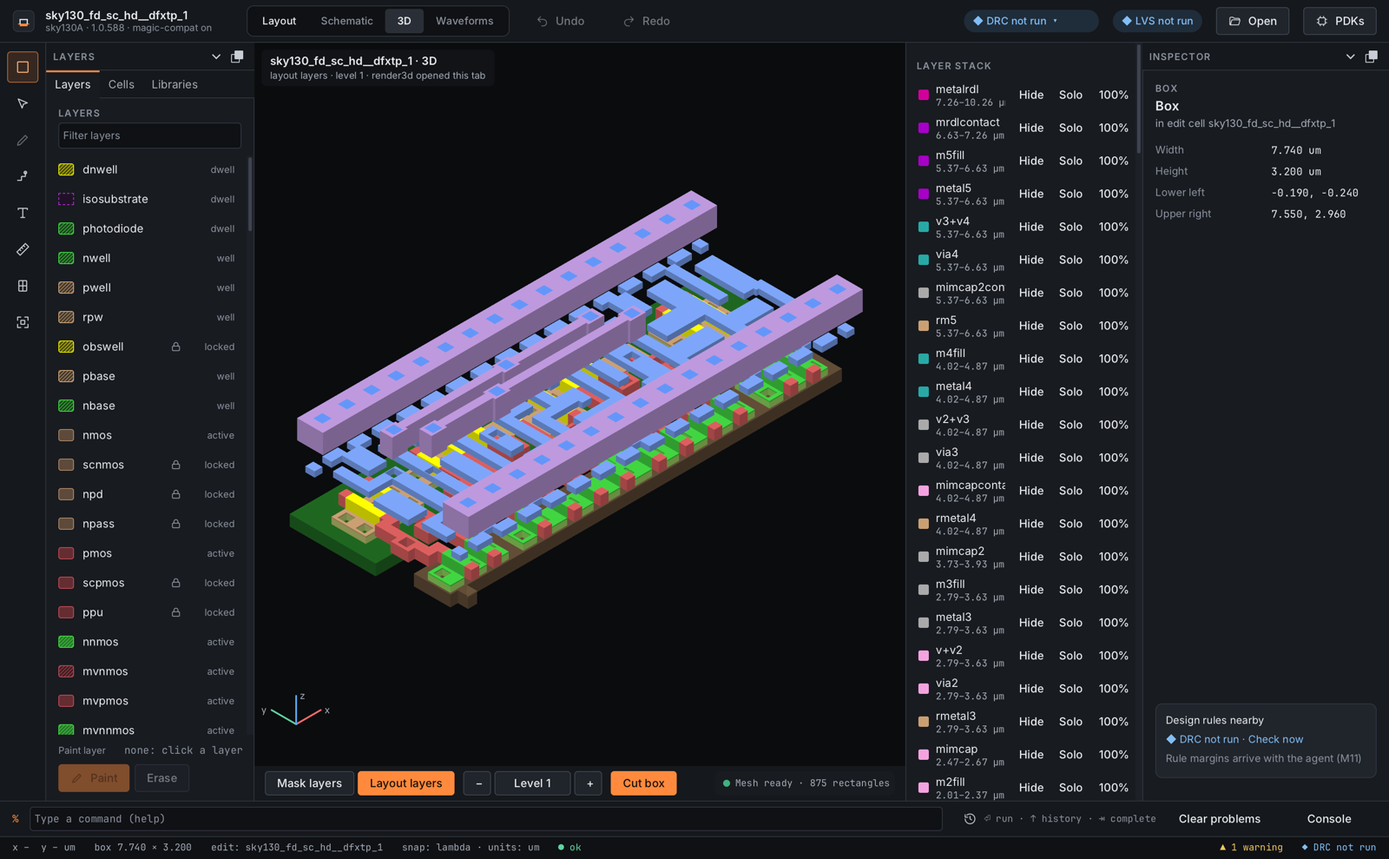
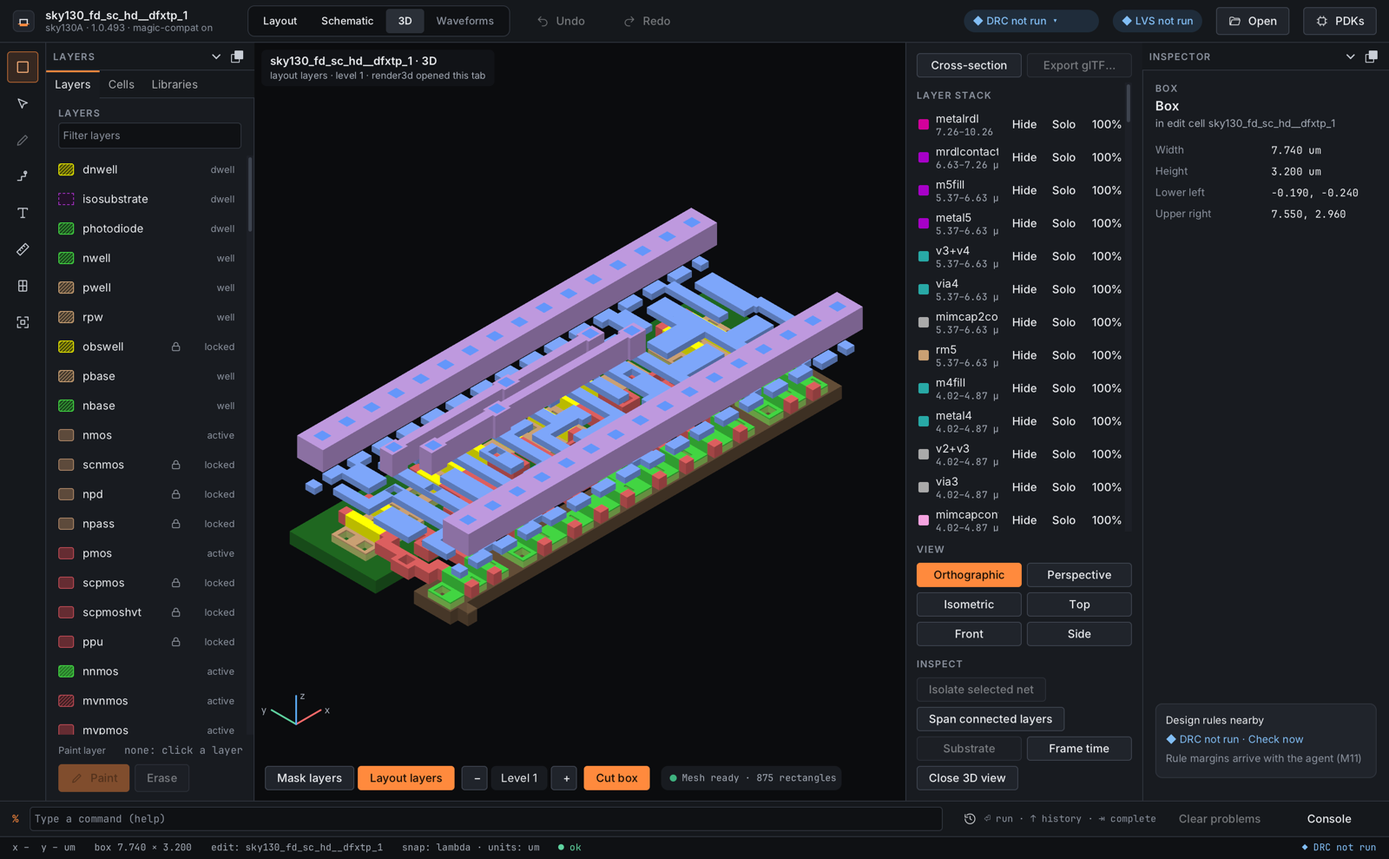
M10 3D round 5 SHELL: conformance review, captures, task notes
After captures (macOS, 1600 x 989 and 1280 x 800) of the floating
toolbar, fitted side panel and Cross-section panel; conformance rows for
round 5 and the accessibility audit of the running app's AX tree; as-landed
notes for tasks 9.6 and 11.5 and design.md.

diff --git a/docs/design/m10-3d-ui-conformance.md b/docs/design/m10-3d-ui-conformance.md
@@ -30,6 +30,22 @@ Round 4 Linux captures (PR #102 CI run 45420881227, leg `linux-x64-clang-latest`
 
 Round 4 (SHELL, branch `m10-3d-round4-shell`, 2026-11-24; Q-MISC-84, Q-MISC-85): the user's screenshot of `sky130_fd_sc_hd__dfxtp_1` did not look like the board. Before captures (same build at the origin/main base, kept out of the repository) showed a light grey background, washed-out faces fading to white, an isometric `view` with the stack upside down and the cell far larger than the window, and Magic's top-down view on opening. After captures, macOS (Apple M3 Pro, MoltenVK, debug build, 1600 × 989 logical, `hefesto -T sky130A.tech <cell>.mag --run 'magic::render3d; .render.magic cif' --capture …`, with Magic's `mos` styles in a CAD_ROOT), with RENDER's round-4 renderer merged: [view3d-dfxtp1-macos.png](../images/ui/view3d-dfxtp1-macos.png) (magic-compat ON), [view3d-dfxtp1-compat-off-macos.png](../images/ui/view3d-dfxtp1-compat-off-macos.png) (`setting set magic-compat off` first: the same picture), [view3d-inverter-macos.png](../images/ui/view3d-inverter-macos.png) (`sky130_fd_sc_hd__inv_1`, standing in for the board's `inverter_demo`, which the repository does not have). Rows in "Round 4 board look" below. Linux captures of the new look come from the CI desktop legs (open).
 
+Round 5 (SHELL, branch `m10-3d-round5-shell`, 2026-11-25; tasks 9.6, 11.5): before captures (the origin/main build at cbe15a8c, kept out of the repository) reproduce the round-4 Linux gaps on macOS at 1280 × 800: the toolbar strip under the view is wider than the view (Cut box and the mesh status cut off), and the panel's View and Inspect sections are below a 349-row layer list. After captures, macOS (Apple M3 Pro, MoltenVK, debug build, same commands as round 4, plus 1280 × 800): [view3d-dfxtp1-macos.png](../images/ui/view3d-dfxtp1-macos.png) (1600 × 989), [view3d-dfxtp1-1280-macos.png](../images/ui/view3d-dfxtp1-1280-macos.png) (1280 × 800), [view3d-dfxtp1-compat-off-macos.png](../images/ui/view3d-dfxtp1-compat-off-macos.png) (magic-compat OFF: the same picture), [view3d-inverter-macos.png](../images/ui/view3d-inverter-macos.png), [view3d-tab-macos.png](../images/ui/view3d-tab-macos.png) (the window test's cell at 1280 × 800), and the Cross-section panel after a click on "Cross-section" (`--press`): [view3d-section-dfxtp1-macos.png](../images/ui/view3d-section-dfxtp1-macos.png), [view3d-section-tab-macos.png](../images/ui/view3d-section-tab-macos.png). Rows in "Round 5" below. The Linux captures of the same window test come from the CI desktop legs of the round's PR (`view3d-captures-<leg>`).
+
+## Round 5: floating toolbar, fit at 1280 × 800, P2 screen part (tasks 9.6, 11.5)
+
+Compared with the board `docs/design/mockups/View3D.dc.html` and the round-5 after captures.
+
+| Element | Seen in the after captures | Status / gap |
+|---|---|---|
+| Floating view toolbar | Mask / Layout layers, the Level stepper (− · "Level 1" · +) and Cut box float over the bottom-left of the 3D view, 12 px from its edges (`raven_ui` `Widget::place_bottom_left`), with the mesh status chip; the strip under the view is gone. The groups flow into rows when the view is narrow (`flow_rows`): one row at 1600 × 989, two rows at 1280 × 800 (mode and level, then Cut box and status). The axis gizmo and the pick caption sit above the toolbar. | done (macOS); the status chip follows the controls instead of sitting at the right end as on the board |
+| Every control fits at 1280 × 800 | The side panel's paired buttons (Cross-section / Export glTF…, Orthographic / Perspective, the presets, Substrate / Frame time) are a two-column grid of equal cells (the board's camera grid), so "Side" ends inside the panel; nothing in the toolbar is cut off. Test "the side panel's button grid and the floating toolbar fit a 1280-px-wide window". | done (macOS 1280 × 800); Linux X11/Wayland from the PR's CI captures |
+| Presets and projection | Pinned under the scrolled layer stack ("View"), always visible, as the board pins them to the bottom of its aside; the layer list scrolls above them. | done (macOS) |
+| Cross-section (task 11.5) | The "Cross-section" toggle cuts A–A′ along the layout box's long axis (axis-aligned; else the cut box, else the cell's bounding box) and shows the "Cross-section A–A′" panel under Inspect: each layer's intervals from h to h + t in µm in its display style's colour, the line's length, the layers with no height named. Two clicks in the 3D view set A and A′ once SECTION's `view3d::ground_point` is merged (guarded). | partial: on main `view3d::section` is a stub, so the panel reads "No layer crosses the line" in the captures; the bars appear with SECTION's implementation (integration). The 3D clipping plane (`DrawParams::section_plane`) is not wired (SECTION's field was not available to this branch) |
+| Export glTF… (task 11.5) | Asks for a file with the platform save dialog (`platform::FilePicker`: glTF, glTF binary, STL; "<cell>.gltf" proposed) and runs `<path> export3d <file>` (or plain `export3d <file>` when the command is not in the 3D window's table). | partial: disabled in the captures because `export3d` (EXPORT, D14) is not registered on main; it enables itself when the command exists |
+| Substrate slab | A "Substrate" toggle (default on, the board look) sets `DrawParams::substrate` from `view3d::substrate_slab` when SECTION's interfaces are merged (guarded). | partial: disabled ("Substrate, off") until SECTION is merged; no slab drawn in the captures |
+| Layer row text at 1280 × 800 | The rows end before the scroll bar; long sky130A names and their µm ranges ("mrdlcontact", "6.63–7.26 µm") are clipped by the three row buttons. | partial: clipped long names (the board shows the row buttons only on hover) |
+
 ## Round 4 board look (Q-MISC-84, Q-MISC-85; tasks 16.6-16.8, 16.10)
 
 Compared with the board render `docs/images/ui/view3d.png` and the three after captures.
@@ -43,8 +59,8 @@ Compared with the board render `docs/images/ui/view3d.png` and the three after c
 | Ghosted layers | The nwell and pwell slabs are drawn at 20 % (dark, see-through) under the devices in both cells; contacts, vias, diffusions, poly, locali and metals are opaque; a row's 100 / 50 / 20 % control overrides it for the window. The board's synthetic substrate slab is not built (deferred by Q-MISC-85). | done (macOS); substrate slab deferred |
 | Camera default | The tab opens on the isometric preset framed to the drawn layers (`view`, `scroll`, `zoom` run on the window's path, so they report it), with s_z 1 so the heights are in proportion. | done (macOS) |
 | Axis gizmo | x (red), y (green), z (blue) arrows at the bottom left from the view's rotation, z pointing up in the isometric view, as the board. | done (macOS) |
-| Presets Isometric / Top / Front / Side | Each runs `view` and then `scroll`/`zoom` from `frame_view`, so the cell fits the view. In the side panel's "View" section, below a long layer list (sky130A has 349 rows), not at the bottom of a left aside as on the board. | partial: placement differs; not in the macOS captures' visible area; in the Linux X11 capture (1280 × 800) the "Side" button is clipped at the panel's right edge |
-| Bottom view toolbar | Mask layers / Layout layers, Level − n +, Cut box and the mesh status with a state dot, in a strip under the view. The board floats it over the view; Raven's `Overlay` wrapper (`raven_ui`) only places children at the top. | partial: strip below the view, not over it; clipped at 1280 × 800 on Linux (Cut box and status cut off) |
+| Presets Isometric / Top / Front / Side | Each runs `view` and then `scroll`/`zoom` from `frame_view`, so the cell fits the view. In the side panel's "View" section, below a long layer list (sky130A has 349 rows), not at the bottom of a left aside as on the board. | Round 5: done (macOS): a two-column grid pinned under the layer list, visible in every capture; nothing clipped at 1280 × 800 |
+| Bottom view toolbar | Mask layers / Layout layers, Level − n +, Cut box and the mesh status with a state dot, in a strip under the view. The board floats it over the view; Raven's `Overlay` wrapper (`raven_ui`) only places children at the top. | Round 5: done (macOS): floats over the view (see "Round 5") and flows into two rows at 1280 × 800 |
 
 ## Board review (DESIGN, task 7.1)
 
@@ -91,7 +107,7 @@ Round 3 (SHELL): `Mesh3dSpike` is removed (`mesh3d_spike.hpp|.cpp`, the `mesh3d_
 | Layers bottom to top with µm ranges (`physical_height_um`) | One row per drawn layer, sorted by draw height and listed top first (as the board), swatch in the display style's color, range in µm, blank when the layer has no height source; non-solid, non-stippled styles are left out (N3). | done (headless) |
 | Show / hide / isolate, kept in sync with `see` (Q-MISC-71) | Row buttons Hide/Show, Solo and "Show all layers" run `<path> see [no] <layer>`, `see no *` + `see <layer>`, `see *`; the rows are read back from the window's set after every command, so `see` from the console updates the panel. Disabled in mask-layer mode (the mask set applies to P2's layers). Test "panel visibility and see stay in sync both ways". | done (headless) |
 | Per-layer transparency | The row's percentage button cycles 100 / 50 / 20 % (`DrawParams::alpha`), outside Magic's state. Round 4: non-conducting area layers start at 20 % (Q-MISC-85); the user's value is kept for the window across rebuilds. | done (headless; ghost defaults seen in the round-4 macOS captures) |
-| Presets Isometric, Top, Front, Side | Buttons running `<path> view ax ay az` with CAMERA's preset angles, then (round 4) `scroll` and `zoom` from `view3d::frame_view` so the drawn layers fit the view. | done (headless) |
+| Presets Isometric, Top, Front, Side | Buttons running `<path> view ax ay az` with CAMERA's preset angles, then (round 4) `scroll` and `zoom` from `view3d::frame_view` so the drawn layers fit the view; round 5: a two-column grid as on the board. | done (macOS captures) |
 | Perspective toggle | Orthographic / Perspective pair (`DrawParams::projection`), not part of Magic's view values. | done (headless) |
 | Mouse, trackpad and key gestures (orbit, pan, zoom, reset) | Drag orbits; Option/Shift/right/middle drag pans; wheel and pinch zoom (Shift scales z); two-finger scroll pans; keys through the `wind3d` bindings (space is `defaults`, Magic's reset). | done (headless) |
 | Cutbox toggle (`cutbox box` / `cutbox none`) | A toggle button, pressed while the window has a cut box. | done (headless) |
@@ -110,8 +126,8 @@ Round 3 (SHELL): `Mesh3dSpike` is removed (`mesh3d_spike.hpp|.cpp`, the `mesh3d_
 
 | Element | Phase | Status / gap |
 |---|---|---|
-| Cross-section tool and the A–A′ section panel | P2 (task 11.5) | later |
-| Export glTF with the file picker | P2 (task 11.5) | later |
+| Cross-section tool and the A–A′ section panel | P2 (task 11.5) | partial (round 5): built; empty until SECTION's `view3d::section` lands; no 3D clipping plane yet (see "Round 5") |
+| Export glTF with the file picker | P2 (task 11.5) | partial (round 5): built; enabled once EXPORT registers `export3d` (see "Round 5") |
 | Overlay dropdown and legend | P3 (task 15.1) | later |
 | Touch orbit and pinch zoom | M14 (iPadOS) | later |
 
@@ -123,18 +139,24 @@ Reviewed on 2026-11-22 against `docs/design/mockups/View3D.dc.html` with the mac
 |---|---|---|
 | Editor-view tab "3D" with its header (cell, mode, level, what opened the tab) | As on the board; the tab is the active segment and the header is a chip at the top left of the view. | done (macOS) |
 | Layer stack, top layer first, swatch, name, µm range, row controls | As on the board; the row buttons are always shown (the board shows them on hover), so they are reachable by Tab and need no hover state. With a 349-layer technology (sky130A) the list is long and scrolls. | done (macOS); difference noted |
-| View toolbar along the bottom of the 3D view (mode, level, cut box, mesh status) | Round 4: Mask / Layout layers, the Level stepper, Cut box and the mesh status are in a toolbar strip under the 3D view, always visible whatever the length of the layer list. The board floats the toolbar over the view; the strip sits below it (see "Round 4 board look"). | partial (macOS): strip below the view |
-| Orthographic / Perspective and the presets | In the side panel's "View" section. | done (headless); not in the capture's visible area |
+| View toolbar along the bottom of the 3D view (mode, level, cut box, mesh status) | Round 5: floats over the bottom of the view as on the board, flowing into rows on a narrow view (see "Round 5"). | done (macOS) |
+| Orthographic / Perspective and the presets | Round 5: the side panel's "View" section, pinned under the scrolled layer stack, in the board's two-column grid. | done (macOS) |
 | Inspect group (Isolate selected net, Span connected layers) | In the side panel's "Inspect" section with Frame time and Close 3D view. | done (picking integrated in round 3) |
 | Tab menu ("Open in separate window", "Close 3D view") | "Close 3D view" is a side-panel button; "Open in separate window" is not built. | todo (P2) |
 | Pick callout ("metal1 · VPWR, picked · selected in 2D") | Caption at the bottom right after a click. | blocked: INSPECT |
 
 ## Accessibility (task 9.6)
 
-| Element | Implemented as | Status / gap |
+Checked on 2026-11-25 (round 5) on the running app (macOS 1280 × 800, the window test's cell, 3D tab shown) by reading its accessibility tree through System Events (`entire contents` of the window, read-only; VoiceOver was not turned on, the Mac is shared). Raven v0.2.3 publishes an NSAccessibility tree for its painted widgets: every 3D-tab control below was found with the listed role and name, and disabled controls report `enabled = false`.
+
+| Element | Implemented as, and what the AX tree shows | Status / gap |
 |---|---|---|
-| Keyboard access to every control | Every control is a focusable painted button (Tab reaches it; Enter and Space click it), including the row buttons and the editor-view tabs; the 3D view takes the focus on a click or when its tab is shown, and its keys are Magic's `wind3d` bindings. | partial: reviewed in code, view-model tests and the macOS capture; a VoiceOver pass on the running app is pending |
-| Screen-reader labels for every control | Names: "3D view", "3D view controls", "3D view toolbar", "Mesh status" (named with the status text), "Layer stack, top layer first", each row "metal1, 1.38–1.73 µm, shown" (a ghosted row adds ", ghosted, 20 percent opaque"), "Hide metal1", "Isolate metal1", "Transparency of metal1, 50 percent" (", ghosted by default" for a ghosted row), "Level down" / "Level up", the presets by name; toggles announce ", on" / ", off" (Perspective, Cut box, Span connected layers, Frame time, Isolate selected net). | partial: as above |
+| Keyboard access to every control | Every control is a focusable painted button (Tab reaches it; Enter and Space click it), including the row buttons and the editor-view tabs; the 3D view takes the focus on a click or when its tab is shown, and its keys are Magic's `wind3d` bindings. | done (code, view-model tests, AX tree: every control is an AXButton); keyboard walk on the running app not recorded |
+| Screen-reader names | From `control_view` (test "every 3D tab control has a screen-reader name and toggles announce their state"): "Cross-section", "Export glTF…", "Orthographic", "Perspective", the presets, "Substrate", "Isolate selected net", "Span connected layers", "Frame time", "Close 3D view", "Show all layers", "Mask layers", "Layout layers", "Level down", "Level up", "Cut box"; rows "metal1, 1.38–1.73 µm, shown" (", ghosted, 20 percent opaque" for a ghosted row), "Hide metal1", "Isolate metal1", "Transparency of metal1, 50 percent"; the level value "Level 1" (AXStaticText, no longer a button that did nothing); the status "Mesh ready · 5 rectangles"; the header "view3d_tab · 3D, layout layers · level 1 · render3d opened this tab"; the section panel's text lists each layer's µm range and interval count. | done (AX tree) |
+| State of toggles | Toggles announce ", on" / ", off" in the name (AXButton "Cut box, on", "Perspective, off"). Raven exposes a checked state (AXValue) only for its own check boxes, menu items and tabs; a painted widget with the toggle role has no way to set it. | partial: state in the name, not in AXValue; upstream Raven item (an accessible checked state for custom widgets) |
+| Groups and roles | AXToolbar "3D view toolbar" with AXGroups "Layer source (cif)" and "Rendering level"; AXGroup "3D view controls" (pane) with groups "3D actions", "Projection", "Camera", "View options"; AXList "Layer stack, top layer first"; section headings as AXStaticText; the separator is hidden from screen readers. | done (AX tree); the board's radio groups (mode, projection) are toggle buttons: Raven's wrapper has no radio role with a selected state |
+| Disabled controls | Export glTF… (no `export3d`), Substrate (no slab yet), Isolate selected net (nothing picked) report `enabled = false` (`set_enabled` follows `control_view`). | done (AX tree) |
+| Outside the 3D tab | The tree also has an unnamed AXButton between the 3D tab and the inspector, and one after "Zoom to fit" (main window widgets, outside SHELL's 3D files; open item). | open item (main window) |
 
 ## Performance (PERF, section 13)
 

diff --git a/openspec/changes/m10-3d-view/tasks.md b/openspec/changes/m10-3d-view/tasks.md
@@ -107,8 +107,9 @@ How this plan runs:
   - As landed (round 3): `from_selection(mesh, stack, selection)`: an instance is highlighted when selected paint of its layer's type overlaps its rectangle, a triangle's bounding box or the unit strip inside a side face. Tests: `highlight_test.cpp` (whole and half rectangle).
 - [x] 9.5 (INSPECT) Implement net highlighting and "Isolate selected net" through `connect` (flat and hierarchical). Verify against `connect::search_flat` results on an inverter: the highlighted set equals the net's tiles.
   - As landed (round 3): `net_highlight(mesh, editor, seed, NetOptions)` with `NetScope::flat` (`connect::search_flat`, the rendered cell) or `hierarchical` (default), both modes of the flat search's compat quirk; `isolate_others` gives the instances to hide or dim. Tests: `highlight_test.cpp` (inverter, both settings: highlighted rectangle area per layer equals the net's area from `search_flat`; a seed in a subcell found only by the hierarchical search).
-- [ ] 9.6 (SHELL) Desktop review of P1 against the board, keyboard and screen-reader labels for every control. Verify the review entries in `docs/design/m10-3d-ui-conformance.md`.
+- [x] 9.6 (SHELL) Desktop review of P1 against the board, keyboard and screen-reader labels for every control. Verify the review entries in `docs/design/m10-3d-ui-conformance.md`.
   As landed (round 3, SHELL): review entries in the conformance doc ("Desktop review of P1" and "Accessibility"); every control is a focusable button with a screen-reader name, toggles announce on/off; macOS screenshot `docs/images/ui/view3d-macos.png`; macOS and Linux (X11, Wayland) captures of the 3D tab test `view3d-tab-*.png`. Left open: a VoiceOver pass, the bottom view toolbar of the board (the parity controls sit in the side panel) (the README image is the new capture `view3d-macos.png`, done at integration; `view3d.png` stays as the mock-up render). Integration round 3: still open for the VoiceOver pass on the running app and the board's bottom view toolbar; neither is a D19 P1 exit criterion.
+  As landed (round 5, SHELL, branch `m10-3d-round5-shell`): the toolbar floats over the bottom of the view (`raven_ui` `Widget::place_bottom_left`, new) and flows into rows on a narrow view; the side panel's paired buttons and presets are a two-column grid pinned under the scrolled layer stack, so every control fits at 1280 x 800 (regression test "the side panel's button grid and the floating toolbar fit a 1280-px-wide window"). Screen-reader pass: the running app's accessibility tree, read through System Events (VoiceOver not turned on, shared Mac), shows every 3D-tab control with its role and name; names and states come from `control_view` (tests "every 3D tab control has a screen-reader name and toggles announce their state", "controls are disabled, and exposed so, when they cannot act"). Gap: a painted toggle's on/off state is in its name, not AXValue (Raven has no checked state for custom widgets; upstream item). Review entries: conformance doc "Round 5" and "Accessibility".
 
 ## 10. MASKSRC: mask-layer source (P2)
 
@@ -124,6 +125,7 @@ How this plan runs:
 - [ ] 11.3 (EXPORT) Implement `export3d` and the glTF writer (design D14, J2): one node per visible layer in layer order, materials from display styles, µm, `-zscale` recorded in `asset.extras`. Verify `[req:3D export]` "glTF export" with a validator check of the output (glTF-Validator in CI), physical heights, and an export from mask-layer mode on gf180mcuD that warns `VIEW3D-STACK-001`.
 - [ ] 11.4 (EXPORT) Implement the binary STL writer, per layer or merged. Make glTF and STL output byte-stable: C locale, fixed triangulation, a cross-platform digest test on Linux x86_64, Linux aarch64 and macOS arm64; pin cgltf's number formatting if the digests differ. Verify that the digests are equal on every leg.
 - [ ] 11.5 (SHELL) Enable Cross-section and Export glTF on the screen with the file picker. Verify view-model tests and the conformance review.
+  As landed (round 5, SHELL, branch `m10-3d-round5-shell`; not ticked until SECTION and EXPORT are merged): "Cross-section" (toggle) cuts A-A' along the layout box's long axis (`box_cut_line`; else the cut box, else the cell's bbox) and shows the "Cross-section A-A'" panel from `view3d::section` (intervals from bottom_um to top_um in µm in the style colours, `no_height` layers named; `section_panel`); two clicks in the 3D view set the line through `view3d::ground_point` when present (template guard). "Export glTF…" opens the save dialog through `platform::FilePicker` and runs `<path> export3d <file>` (`export_request`, `export_command`), enabled when `export3d` is registered. A "Substrate" toggle (default on) sets `DrawParams::substrate` from `view3d::substrate_slab` when present (guard). Tests: "Export glTF asks for a file and runs export3d on the window", "the cut line follows the layout box's long axis and two clicks make an axis-aligned line", "the cross-section cuts the layout box in the rendered cell, else the cell", "Cross-section: the section panel draws each interval from bottom to top in microns". Open for integration: the guards, `DrawParams::section_plane` (not wired), and captures with SECTION's real section.
 
 ## 12. GOLDEN (P1, P2)
 

diff --git a/openspec/changes/m10-3d-view/design.md b/openspec/changes/m10-3d-view/design.md
@@ -545,3 +545,16 @@ Branch `m10-3d-round4-shell` (tasks 16.6-16.8, 16.10; Q-MISC-84 (V1) and Q-MISC-
 - **Bottom toolbar (16.10).** Mask / Layout layers, the Level stepper, Cut box and the mesh status with a state dot sit in a strip under the 3D view (`build_toolbar`), replacing the side panel's "Magic 3D" section. The strip is below the view, not floating over it: `raven_ui`'s `Overlay` places children only at the top, and `raven_ui` is outside the round's files.
 - **Ownership.** No file outside the assignment was edited: `view3d_view.*`, `view3d_models.*`, `view3d_models_test.cpp`, `view3d/stack/ghost.*` (new; one line in `view3d/stack/sources.cmake`, the classifier's source), `stack_ghost_test.cpp`, the conformance doc, the captures, these notes.
 - **Cognitive complexity.** clang-tidy `readability-function-cognitive-complexity` (threshold 15) reports nothing in `view3d_view.cpp`, `view3d_models.cpp` or `ghost.cpp`.
+
+## As-landed: round 5 SHELL
+
+Branch `m10-3d-round5-shell` (tasks 9.6, 11.5; the round-4 conformance gaps). No new user decision; Q-MISC-84 and Q-MISC-85 behaviour is unchanged and identical in both magic-compat modes.
+
+- **Floating toolbar.** `raven_ui` gains `Widget::place_bottom_center`, `place_bottom_left`, `place_bottom_right` (as `Toast::place_bottom_center`), `Widget::set_accessible_hidden` and `ui::set_container_role` (append-only). The toolbar (Mask / Layout layers, the Level stepper, Cut box, the mesh status) is an Overlay child of the 3D view at its bottom left, 12 px from the edges; its groups are flowed into rows by `flow_rows` whenever the view's width or the status text's width changes, so the 1280 x 800 window shows it in two rows. The gizmo and pick caption are drawn above it. The Level value is a text widget ("Level 1"), not a button.
+- **Side panel.** Actions (Cross-section, Export glTF…) at the top; the layer stack scrolls; View, Inspect and the section panel are pinned below it. Paired buttons use `grid_cell_width` over `side_content_width()` (two columns, the board's camera grid), which fixes the clipped "Side" preset.
+- **Controls as a view model.** `control_view(View3dControl, View3dControlState)` gives every non-row control's label, screen-reader name (", on" / ", off" for toggles, `view3d_toggle_name`), state, enabled flag and tooltip; the view paints and names its buttons from it and sets the widgets' enabled state, which Raven exposes.
+- **Accessibility audit.** The running app's AX tree (System Events, read-only) shows Raven v0.2.3 publishes the painted widgets with their roles and names; the toggle state lives in the name because Raven has no checked state for custom widgets (upstream item).
+- **P2 actions.** Cross-section: `section_area` (box in the rendered cell, else cut box, else bbox), `box_cut_line`, `axis_aligned_line`, `segment_length_um`, `section_panel` (bars in panel units, `no_height` names, summary and screen-reader text, hidden layers left out). Export: `export_request` (save; .gltf, .glb, .stl) through `EditorState::file_picker`, `export_command` (`<path> export3d <file>` when export3d is in the `wind3d` table, else `export3d <file>`; the file is one Tcl word).
+- **Guards for integration.** In `view3d_view.cpp`: `kHaveSubstrate` / `set_substrate` (`DrawParams::substrate = substrate_slab(mesh, stack)`, found by ADL; `hefesto/view3d/stack/substrate.hpp` included through `__has_include`) and `kHaveGroundPoint` / `ground_at` (assumes `ground_point(view, x, y, width, height)` returning an optional point with `x`, `y`). With SECTION merged, check both guards turn true (the Substrate toggle enables; clicks in section mode set A and A'); a different signature leaves them false silently. `DrawParams::section_plane` is not set.
+- **Cognitive complexity.** clang-tidy `readability-function-cognitive-complexity` (threshold 15) reports nothing in `view3d_view.cpp` or `view3d_models.cpp`; in `raven_ui.cpp` only the existing `on_event` (20, not touched).
+- **Ownership.** Only the round's SHELL files: `view3d_view.*`, `view3d_models.*`, `view3d_models_test.cpp`, `raven_ui.*` (appended methods), the conformance doc (not "Performance"), `docs/images/ui/view3d-*`, tasks.md 9.6 and 11.5, this section.
